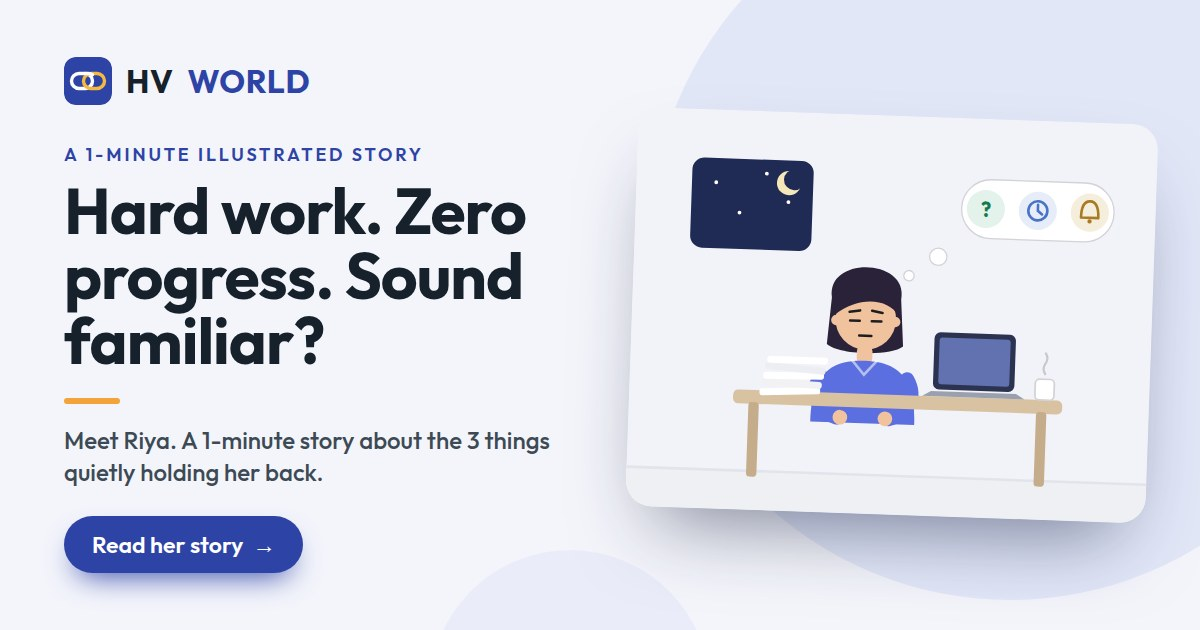
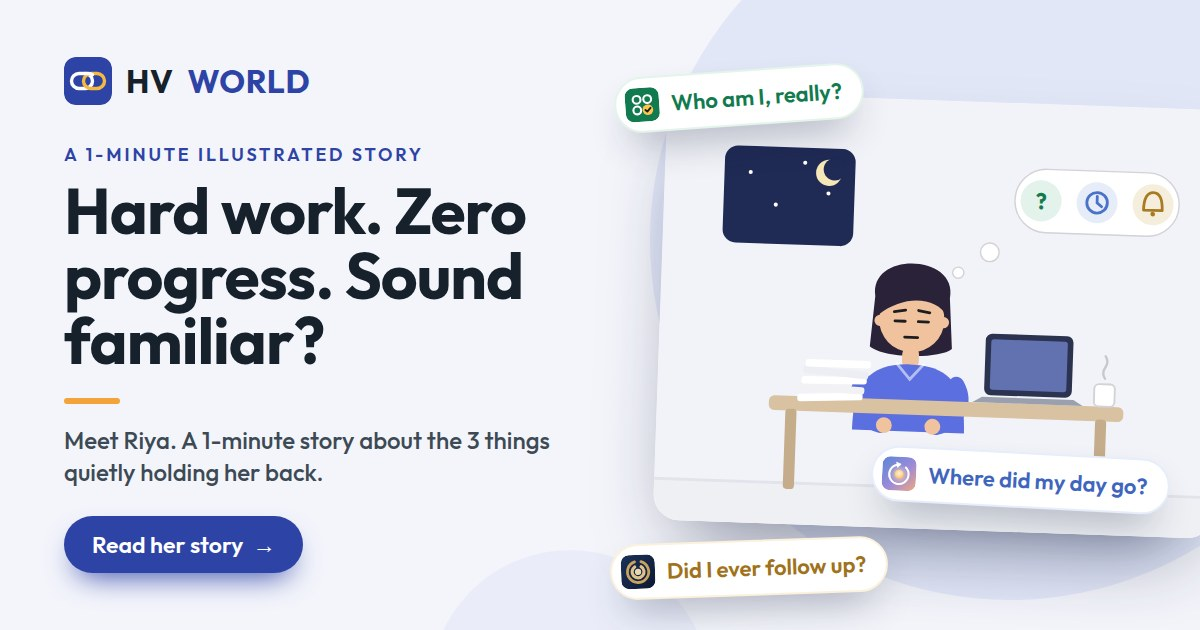
Riya's story preview: her three problems as floating chips
Bigger illustration with three chips around Riya, each in its app's
colour with the app icon: Who am I, really? / Where did my day go? /
Did I ever follow up?

Claude-Session: https://claude.ai/code/session_01Vu6r8mcg3NGaLLefhwPnrg

Changed region(s): [[0.4933, 0.2714, 1.0, 0.9952], [0.4933, 0.0905, 0.74, 0.4825]]

diff --git a/src/og-cards.html b/src/og-cards.html
@@ -45,6 +45,7 @@ h1{margin-top:12px;font-weight:700;font-size:64px;line-height:1.02;letter-spacin
 .score.mini{width:300px;padding:18px 22px}
 .vmini{position:absolute;width:300px;background:#fff;border-radius:22px;padding:16px;box-shadow:0 30px 60px -24px rgba(20,30,60,.5);z-index:3}
 .tag-app{display:flex;align-items:center;gap:8px;font-size:15px;font-weight:600;color:#6B7390;margin-bottom:10px}
-.riya{position:absolute;right:48px;top:50%;width:520px;transform:translateY(-50%) rotate(2deg);border-radius:26px;overflow:hidden;box-shadow:0 40px 80px -30px rgba(20,30,60,.55)}
+.pchip{position:absolute;z-index:4;display:flex;align-items:center;gap:12px;font-weight:600;font-size:22px;color:var(--c);background:#fff;border:2px solid var(--b);padding:9px 20px 9px 9px;border-radius:999px;box-shadow:0 20px 40px -16px rgba(20,30,60,.45);white-space:nowrap}
+.riya{position:absolute;left:40px;top:50%;width:560px;transform:translateY(-50%) rotate(2deg);border-radius:26px;overflow:hidden;box-shadow:0 40px 80px -30px rgba(20,30,60,.55)}
 .riya svg{display:block;width:100%;height:auto}
-</style></head><body><div class="card" data-out="og.jpg" style="--accent:#2E43A6;--dark:#233489;--tint:#F4F5FB;--circle:#E2E7F8"><div class="c1"></div><div class="c2"></div><div class="left"><div class="brand"><svg style="width:48px;height:48px;border-radius:11px;transform:rotate(0deg);flex:none;" xmlns="http://www.w3.org/2000/svg" viewBox="0 0 48 48"><defs><linearGradient id="hvw-og4" x1="0" y1="0" x2="1" y2="1"><stop offset="0" stop-color="#1C2A6B"/><stop offset=".6" stop-color="#4A46C9"/><stop offset="1" stop-color="#7C5CE0"/></linearGradient><radialGradient id="hvwc-og4" cx=".4" cy=".35" r=".7"><stop offset="0" stop-color="#FFFFFF"/><stop offset="1" stop-color="#C9D3FF"/></radialGradient></defs><rect width="48" height="48" rx="12" fill="url(#hvw-og4)"/><ellipse cx="24" cy="24" rx="16.5" ry="7.5" fill="none" stroke="#fff" stroke-opacity=".55" stroke-width="1.8" transform="rotate(-24 24 24)"/><circle cx="24" cy="24" r="6.2" fill="url(#hvwc-og4)"/><circle cx="37.6" cy="17.9" r="3.3" fill="#F2C063"/><circle cx="10.4" cy="30.1" r="3.3" fill="#34C77B"/><circle cx="17.4" cy="14.6" r="2.6" fill="#F2A77E"/></svg>HV <b>WORLD</b></div><p class="eye">3 free apps · by Harsh Vittori</p><h1>Stop guessing.<br>Start growing.</h1><div class="rule"></div><p class="sub">Know your strengths. Run a calm day.<br>Never miss a follow-up.</p><div class="cta">▶&nbsp; Watch the 45s film</div></div><div class="bleed"><div class="score mini" style="left:30px;top:44px;transform:rotate(-4deg)"><div class="tag-app"><svg style="width:26px;height:26px;border-radius:6px;transform:rotate(0deg);flex:none;" xmlns="http://www.w3.org/2000/svg" viewBox="0 0 48 48"><rect width="48" height="48" rx="12" fill="#127A4F"/><circle cx="16.5" cy="16.5" r="5.5" stroke="#FFFFFF" stroke-width="3" fill="none"/><circle cx="31.5" cy="16.5" r="5.5" stroke="#FFFFFF" stroke-width="3" fill="none"/><circle cx="16.5" cy="31.5" r="5.5" stroke="#FFFFFF" stroke-width="3" fill="none"/><circle cx="31.5" cy="31.5" r="7.5" fill="#FFC54D"/><path d="M28 31.6l2.5 2.5 4.8-5" stroke="#17231C" stroke-width="2.6" fill="none" stroke-linecap="round" stroke-linejoin="round"/></svg><span>HV Test</span></div><div class="sc-top" style="margin:0"><svg viewBox="0 0 120 120" class="ringsv" style="width:96px;height:96px"><circle cx="60" cy="60" r="50" fill="none" stroke="#E1F0E7" stroke-width="13"/><circle cx="60" cy="60" r="50" fill="none" stroke="#127A4F" stroke-width="13" stroke-linecap="round" stroke-dasharray="314" stroke-dashoffset="104" transform="rotate(-90 60 60)"/></svg><div class="sc-num"><b style="font-size:60px">67<span style="font-size:22px">/100</span></b><em style="font-size:16px">Grounded</em></div></div></div><div class="plan" style="left:214px;top:215px;width:350px;transform:rotate(3deg);z-index:4"><div class="tag-app"><svg style="width:26px;height:26px;border-radius:6px;transform:rotate(0deg);flex:none;" xmlns="http://www.w3.org/2000/svg" viewBox="0 0 1024 1024"><defs><linearGradient id="hvrbg-og2" x1="0" y1="0" x2="1" y2="1"><stop offset="0" stop-color="#5B86D6"/><stop offset=".55" stop-color="#9C8BDA"/><stop offset="1" stop-color="#F2A77E"/></linearGradient><radialGradient id="hvrsun-og2" cx=".5" cy=".42" r=".6"><stop offset="0" stop-color="#FFF6DA"/><stop offset=".6" stop-color="#FFD58F"/><stop offset="1" stop-color="#FFB066"/></radialGradient><radialGradient id="hvrglow-og2" cx=".5" cy=".5" r=".5"><stop offset="0" stop-color="#FFE9B8" stop-opacity=".75"/><stop offset="1" stop-color="#FFE9B8" stop-opacity="0"/></radialGradient></defs><rect width="1024" height="1024" rx="232" fill="url(#hvrbg-og2)"/><circle cx="512" cy="530" r="300" fill="url(#hvrglow-og2)"/><circle cx="512" cy="530" r="138" fill="url(#hvrsun-og2)"/><path d="M704 318A292 292 0 1 1 452 244" fill="none" stroke="#fff" stroke-width="62" stroke-linecap="round"/><path d="M548 225L454 318L424 176Z" fill="#fff" stroke="#fff" stroke-width="30" stroke-linejoin="round"/></svg><span>HV Reset</span></div><div class="row now"><b>3:00 PM</b><span>Send applications</span><em>+30m</em></div><div class="row"><b>4:30 PM</b><span>Outreach</span><em>+30m</em></div></div><div class="vmini" style="left:40px;top:392px;transform:rotate(-2deg)"><div class="tag-app"><svg style="width:26px;height:26px;border-radius:6px;transform:rotate(0deg);flex:none;" viewBox="0 0 1024 1024" aria-hidden="true"><defs><linearGradient id="hvaimk-og3" x1="0" y1="0" x2="1" y2="1"><stop offset="0" stop-color="#1B3157"/><stop offset=".5" stop-color="#152647"/><stop offset="1" stop-color="#0C1830"/></linearGradient></defs><rect width="1024" height="1024" rx="230" fill="url(#hvaimk-og3)"/><path d="M 608.00 360.68 A 179.2 179.2 0 1 1 416.00 360.68" fill="none" stroke="#DFC18A" stroke-width="96" stroke-linecap="round"/><path d="M 608.00 206.74 A 320 320 0 1 1 416.00 206.74" fill="none" stroke="#C9A45E" stroke-width="83.2" stroke-linecap="round"/><circle cx="512" cy="512" r="96" fill="#EAD9B0"/></svg><span>HV Vault</span></div><div class="kc " style="position:relative;box-shadow:none;border:1px solid #EEF0F5"><div class="kh"><i style="background:#FC8019">S</i><div><b>Growth Associate</b><small>Swiggy</small></div></div><span class="tg">Applied ✓</span></div></div><div class="toast" style="left:250px;bottom:40px;z-index:5">✓&nbsp; Follow-up reminder set</div></div></div><div class="card" data-out="story/og.jpg" style="--accent:#2E43A6;--dark:#233489;--tint:#F4F5FB;--circle:#E2E7F8"><div class="c1"></div><div class="c2"></div><div class="left"><div class="brand"><svg style="width:48px;height:48px;border-radius:11px;transform:rotate(0deg);flex:none;" xmlns="http://www.w3.org/2000/svg" viewBox="0 0 48 48"><rect width="48" height="48" rx="12" fill="#2E43A6"/><rect x="7.5" y="16.5" width="21" height="15" rx="7.5" fill="none" stroke="#FFFFFF" stroke-width="3.4"/><rect x="19.5" y="16.5" width="21" height="15" rx="7.5" fill="none" stroke="#F4B942" stroke-width="3.4"/><path d="M21.2 16.5h3.3a7.5 7.5 0 0 1 4 1.2" fill="none" stroke="#FFFFFF" stroke-width="3.4" stroke-linecap="round"/></svg>HV <b>WORLD</b></div><p class="eye">A 1-minute illustrated story</p><h1>Hard work. Zero progress. Sound familiar?</h1><div class="rule"></div><p class="sub">Meet Riya. A 1-minute story about the 3 things quietly holding her back.</p><div class="cta">Read her story &nbsp;→</div></div><div class="riya"><svg class="art" viewBox="0 0 600 460" role="img" aria-label="Riya at her desk late at night, worried about three things: who she is, where her day goes, and follow-ups"><rect width="600" height="460" rx="28" fill="#F2F3F8"/><rect x="64" y="56" width="140" height="104" rx="14" fill="#1F2A55"/><circle cx="176" cy="82" r="14" fill="#F6E7B8"/><circle cx="182" cy="78" r="12" fill="#1F2A55"/><circle class="twinkle" style="animation-delay:0.0s" cx="92" cy="84" r="2.2" fill="#FFFFFF"/><circle class="twinkle" style="animation-delay:0.7s" cx="150" cy="72" r="2.2" fill="#FFFFFF"/><circle class="twinkle" style="animation-delay:1.3s" cx="120" cy="118" r="2.2" fill="#FFFFFF"/><circle class="twinkle" style="animation-delay:2.0s" cx="176" cy="104" r="2.2" fill="#FFFFFF"/><rect x="0" y="416" width="600" height="44" fill="#EEF0F4"/><rect x="0" y="414" width="600" height="3" fill="#E1E4EA"/><g class="" transform="translate(270 330) scale(1)"><path d="M-40,-118 C-48,-166 48,-166 40,-118 L44,-64 C30,-52 -30,-52 -44,-64Z" fill="#2A2238"/><rect x="-9" y="-64" width="18" height="22" rx="7" fill="#F0C29E"/><path d="M-60,26 C-60,-26 -42,-46 0,-46 C42,-46 60,-26 60,26 Z" fill="#5B6FE0"/><path d="M-14,-46 L0,-30 L14,-46" fill="none" stroke="#FFFFFF" stroke-opacity=".55" stroke-width="3" stroke-linecap="round"/><circle cx="-34" cy="-92" r="6" fill="#F0C29E"/><circle cx="34" cy="-92" r="6" fill="#F0C29E"/><circle cx="0" cy="-94" r="35" fill="#F0C29E"/><path d="M-36,-98 C-34,-138 34,-142 37,-100 C26,-118 -8,-122 -36,-98Z" fill="#2A2238"/><g class=""><path d="M-18,-92 L-7,-92 M7,-92 L18,-92" stroke="#1D1D1F" stroke-width="3" stroke-linecap="round"/><path d="M-19,-102 L-7,-104 M19,-102 L7,-104" stroke="#1D1D1F" stroke-width="3" stroke-linecap="round"/><path d="M-7,-75 L7,-75" stroke="#1D1D1F" stroke-width="3" stroke-linecap="round"/></g><g class=""><path d="M-50,-26 C-62,-6 -52,14 -30,20" fill="none" stroke="#5B6FE0" stroke-width="17" stroke-linecap="round"/><circle cx="-26" cy="20" r="8.5" fill="#F0C29E"/><path d="M50,-26 C62,-6 52,14 30,20" fill="none" stroke="#5B6FE0" stroke-width="17" stroke-linecap="round"/><circle cx="26" cy="20" r="8.5" fill="#F0C29E"/></g></g><rect x="120" y="322" width="380" height="16" rx="6" fill="#D8C2A2"/><rect x="138" y="336" width="12" height="86" rx="4" fill="#C5AD8B"/><rect x="470" y="336" width="12" height="86" rx="4" fill="#C5AD8B"/><rect x="150" y="318" width="70" height="8" rx="3" fill="#FFFFFF" transform="rotate(-3 185 318)"/><rect x="152" y="309" width="70" height="8" rx="3" fill="#F2F2F5" transform="rotate(2 185 309)"/><rect x="154" y="300" width="70" height="8" rx="3" fill="#FFFFFF" transform="rotate(-1 185 300)"/><rect x="156" y="291" width="70" height="8" rx="3" fill="#ECEEF3" transform="rotate(4 185 291)"/><rect x="158" y="282" width="70" height="8" rx="3" fill="#FFFFFF" transform="rotate(0 185 282)"/><g><path d="M338,322 h118 l-10,-6 h-98Z" fill="#9AA0AE"/><rect x="350" y="248" width="94" height="66" rx="7" fill="#2B3350"/><rect class="glowlap" x="356" y="254" width="82" height="54" rx="3" fill="#8FA6FF" opacity=".55"/></g><g><rect x="468" y="298" width="22" height="24" rx="5" fill="#FFFFFF" stroke="#D2D2D7" stroke-width="2"/><path class="steam" d="M479,292 q-4,-6 0,-12 q4,-6 0,-12" fill="none" stroke="#C7C7CC" stroke-width="2.5" stroke-linecap="round"/></g><g class=""><circle cx="318" cy="184" r="6" fill="#FFFFFF" stroke="#D2D2D7" stroke-width="1.5"/><circle cx="351" cy="161" r="10" fill="#FFFFFF" stroke="#D2D2D7" stroke-width="1.5"/><rect x="376" y="70" width="176" height="68" rx="34" fill="#FFFFFF" stroke="#D2D2D7" stroke-width="1.5"/><g class="pop" style="animation-delay:0s"><circle cx="404" cy="104" r="22" fill="#E3F2EA"/><text x="404" y="113" text-anchor="middle" font-size="24" font-weight="700" fill="#127A4F">?</text></g><g class="pop" style="animation-delay:.6s"><circle cx="464" cy="104" r="22" fill="#E6EDF9"/><circle cx="464" cy="104" r="11" fill="none" stroke="#4A72C8" stroke-width="3"/><path d="M464,97 v7 l5,4" stroke="#4A72C8" stroke-width="3" fill="none" stroke-linecap="round"/></g><g class="pop" style="animation-delay:1.2s"><circle cx="524" cy="104" r="22" fill="#F6EEDC"/><path d="M514,110 c0,-14 4,-19 10,-19 s10,5 10,19Z" fill="none" stroke="#A87A22" stroke-width="3" stroke-linejoin="round"/><circle cx="524" cy="114" r="2.5" fill="#A87A22"/></g></g></svg></div></div><div class="card" data-out="test/og.jpg" style="--accent:#127A4F;--dark:#0D5E3C;--tint:#F4F8F5;--circle:#DDEFE4"><div class="c1"></div><div class="c2"></div><div class="left"><div class="brand"><svg style="width:48px;height:48px;border-radius:11px;transform:rotate(0deg);flex:none;" xmlns="http://www.w3.org/2000/svg" viewBox="0 0 48 48"><rect width="48" height="48" rx="12" fill="#127A4F"/><circle cx="16.5" cy="16.5" r="5.5" stroke="#FFFFFF" stroke-width="3" fill="none"/><circle cx="31.5" cy="16.5" r="5.5" stroke="#FFFFFF" stroke-width="3" fill="none"/><circle cx="16.5" cy="31.5" r="5.5" stroke="#FFFFFF" stroke-width="3" fill="none"/><circle cx="31.5" cy="31.5" r="7.5" fill="#FFC54D"/><path d="M28 31.6l2.5 2.5 4.8-5" stroke="#17231C" stroke-width="2.6" fill="none" stroke-linecap="round" stroke-linejoin="round"/></svg>HV <b>TEST</b></div><p class="eye">10 minutes · Free · No login</p><h1>You think you know yourself. Prove it.</h1><div class="rule"></div><p class="sub">Real-life situations. An honest score out of 100, and a 30-day plan to grow.</p><div class="cta">Take the test &nbsp;→</div></div><div class="bleed"><div class="score" style="left:40px;top:50%;transform:translateY(-50%) rotate(-2deg)"><div class="sc-top"><svg viewBox="0 0 120 120" class="ringsv"><circle cx="60" cy="60" r="50" fill="none" stroke="#E1F0E7" stroke-width="12"/><circle cx="60" cy="60" r="50" fill="none" stroke="#127A4F" stroke-width="12" stroke-linecap="round" stroke-dasharray="314" stroke-dashoffset="104" transform="rotate(-90 60 60)"/></svg><div class="sc-num"><small>YOUR SCORE</small><b>67<span>/100</span></b><em>Grounded</em></div></div><div class="br"><div class="bt"><span>Accountability</span><b>89</b></div><div class="bb"><i style="width:89%"></i></div></div><div class="br"><div class="bt"><span>Emotional control</span><b>81</b></div><div class="bb"><i style="width:81%"></i></div></div><div class="br"><div class="bt"><span>Handling conflict</span><b>70</b></div><div class="bb"><i style="width:70%"></i></div></div></div><div class="fchip green" style="right:44px;top:66px;transform:rotate(4deg)">📄&nbsp; 2 PDFs ready</div><div class="fchip amber" style="right:30px;bottom:70px;transform:rotate(-3deg)">🎯&nbsp; 30-day plan</div></div></div><div class="card" data-out="reset/og.jpg" style="--accent:#3F66BE;--dark:#2C4E99;--tint:#F3F6FC;--circle:#DCE6F8"><div class="c1"></div><div class="c2"></div><div class="left"><div class="brand"><svg style="width:48px;height:48px;border-radius:11px;transform:rotate(0deg);flex:none;" xmlns="http://www.w3.org/2000/svg" viewBox="0 0 1024 1024"><defs><linearGradient id="hvrbg-og7" x1="0" y1="0" x2="1" y2="1"><stop offset="0" stop-color="#5B86D6"/><stop offset=".55" stop-color="#9C8BDA"/><stop offset="1" stop-color="#F2A77E"/></linearGradient><radialGradient id="hvrsun-og7" cx=".5" cy=".42" r=".6"><stop offset="0" stop-color="#FFF6DA"/><stop offset=".6" stop-color="#FFD58F"/><stop offset="1" stop-color="#FFB066"/></radialGradient><radialGradient id="hvrglow-og7" cx=".5" cy=".5" r=".5"><stop offset="0" stop-color="#FFE9B8" stop-opacity=".75"/><stop offset="1" stop-color="#FFE9B8" stop-opacity="0"/></radialGradient></defs><rect width="1024" height="1024" rx="232" fill="url(#hvrbg-og7)"/><circle cx="512" cy="530" r="300" fill="url(#hvrglow-og7)"/><circle cx="512" cy="530" r="138" fill="url(#hvrsun-og7)"/><path d="M704 318A292 292 0 1 1 452 244" fill="none" stroke="#fff" stroke-width="62" stroke-linecap="round"/><path d="M548 225L454 318L424 176Z" fill="#fff" stroke="#fff" stroke-width="30" stroke-linejoin="round"/></svg>HV <b>RESET</b></div><p class="eye">Plan your day</p><h1>Late start?<br>Fix your whole day<br>in one tap.</h1><div class="rule"></div><p class="sub">One block, one task, zero guilt. Meals and breaks stay protected.</p><div class="cta">Plan my day &nbsp;→</div></div><div class="bleed"><div class="win" style="width:565px;left:8px;top:50%;transform:translateY(-50%) rotate(-2deg)"><div class="bar"><i></i><i></i><i></i><span>harshvittori.github.io/harsh-reset</span></div><div class="scr" style="height:331px;background-image:url(og-assets/r-intro-0.jpg);background-size:1017.0px auto;background-position:-226.0px -123.6px"></div></div><div class="fchip amber" style="left:10px;top:78px;transform:rotate(-4deg)">⏰&nbsp; Running 30 min late</div><div class="plan" style="left:-24px;bottom:58px;transform:rotate(2deg)"><div class="row now"><b>3:00 PM</b><span>Send applications</span><em>+30m</em></div><div class="row"><b>4:30 PM</b><span>Outreach</span><em>+30m</em></div><div class="row meal"><b>5:30 PM</b><span>Lunch break</span><em>kept</em></div></div><div class="fchip green" style="right:40px;bottom:150px;transform:rotate(3deg)">✓&nbsp; Whole day shifted</div></div></div><div class="card" data-out="vault/og.jpg" style="--accent:#A0721C;--dark:#7C5712;--tint:#FAF7F0;--circle:#F1E6CF"><div class="c1"></div><div class="c2"></div><div class="left"><div class="brand"><svg style="width:48px;height:48px;border-radius:11px;transform:rotate(0deg);flex:none;" viewBox="0 0 1024 1024" aria-hidden="true"><defs><linearGradient id="hvaimk-og8" x1="0" y1="0" x2="1" y2="1"><stop offset="0" stop-color="#1B3157"/><stop offset=".5" stop-color="#152647"/><stop offset="1" stop-color="#0C1830"/></linearGradient></defs><rect width="1024" height="1024" rx="230" fill="url(#hvaimk-og8)"/><path d="M 608.00 360.68 A 179.2 179.2 0 1 1 416.00 360.68" fill="none" stroke="#DFC18A" stroke-width="96" stroke-linecap="round"/><path d="M 608.00 206.74 A 320 320 0 1 1 416.00 206.74" fill="none" stroke="#C9A45E" stroke-width="83.2" stroke-linecap="round"/><circle cx="512" cy="512" r="96" fill="#EAD9B0"/></svg>HV <b>VAULT</b></div><p class="eye">For your job hunt</p><h1>Stop losing job leads in WhatsApp chats.</h1><div class="rule"></div><p class="sub">Every job, recruiter and interview on one board, with follow-ups that set themselves.</p><div class="cta">Organise my job hunt &nbsp;→</div></div><div class="bleed"><div class="board" style="left:14px;top:50%;transform:translateY(-50%) rotate(-2deg)"><div class="bh"><span>SAVED</span><span>APPLIED</span><span>INTERVIEW</span></div><div class="cols"><div class="kcol"><div class="kc " style=""><div class="kh"><i style="background:#3395FF">R</i><div><b>GTM Associate</b><small>Razorpay</small></div></div><span class="tg">Medium</span></div><div class="kc " style=""><div class="kh"><i style="background:#E0457B">M</i><div><b>Growth Analyst</b><small>Meesho</small></div></div><span class="tg">High</span></div></div><div class="kcol"><div class="kc " style=""><div class="kh"><i style="background:#1D1D1F">C</i><div><b>Founder's Office</b><small>Cred</small></div></div><span class="tg">Follow-up in 5d</span></div><div class="slot"></div></div><div class="kcol"><div class="kc " style=""><div class="kh"><i style="background:#E23744">Z</i><div><b>Partnerships Lead</b><small>Zomato</small></div></div><span class="tg">Tue · 4:00 PM</span></div></div></div></div><div class="kc drag" style="left:215px;top:300px;transform:rotate(6deg);width:236px"><div class="kh"><i style="background:#FC8019">S</i><div><b>Growth Associate</b><small>Swiggy</small></div></div><span class="tg">High</span></div><div class="toast" style="left:48px;bottom:44px">✓&nbsp; Applied, follow-up reminder set</div><div class="fchip gold" style="right:64px;top:62px;transform:rotate(4deg)">🔔&nbsp; Follow up with Cred today</div></div></div></body></html>
+</style></head><body><div class="card" data-out="og.jpg" style="--accent:#2E43A6;--dark:#233489;--tint:#F4F5FB;--circle:#E2E7F8"><div class="c1"></div><div class="c2"></div><div class="left"><div class="brand"><svg style="width:48px;height:48px;border-radius:11px;transform:rotate(0deg);flex:none;" xmlns="http://www.w3.org/2000/svg" viewBox="0 0 48 48"><defs><linearGradient id="hvw-og7" x1="0" y1="0" x2="1" y2="1"><stop offset="0" stop-color="#1C2A6B"/><stop offset=".6" stop-color="#4A46C9"/><stop offset="1" stop-color="#7C5CE0"/></linearGradient><radialGradient id="hvwc-og7" cx=".4" cy=".35" r=".7"><stop offset="0" stop-color="#FFFFFF"/><stop offset="1" stop-color="#C9D3FF"/></radialGradient></defs><rect width="48" height="48" rx="12" fill="url(#hvw-og7)"/><ellipse cx="24" cy="24" rx="16.5" ry="7.5" fill="none" stroke="#fff" stroke-opacity=".55" stroke-width="1.8" transform="rotate(-24 24 24)"/><circle cx="24" cy="24" r="6.2" fill="url(#hvwc-og7)"/><circle cx="37.6" cy="17.9" r="3.3" fill="#F2C063"/><circle cx="10.4" cy="30.1" r="3.3" fill="#34C77B"/><circle cx="17.4" cy="14.6" r="2.6" fill="#F2A77E"/></svg>HV <b>WORLD</b></div><p class="eye">3 free apps · by Harsh Vittori</p><h1>Stop guessing.<br>Start growing.</h1><div class="rule"></div><p class="sub">Know your strengths. Run a calm day.<br>Never miss a follow-up.</p><div class="cta">▶&nbsp; Watch the 45s film</div></div><div class="bleed"><div class="score mini" style="left:30px;top:44px;transform:rotate(-4deg)"><div class="tag-app"><svg style="width:26px;height:26px;border-radius:6px;transform:rotate(0deg);flex:none;" xmlns="http://www.w3.org/2000/svg" viewBox="0 0 48 48"><rect width="48" height="48" rx="12" fill="#127A4F"/><circle cx="16.5" cy="16.5" r="5.5" stroke="#FFFFFF" stroke-width="3" fill="none"/><circle cx="31.5" cy="16.5" r="5.5" stroke="#FFFFFF" stroke-width="3" fill="none"/><circle cx="16.5" cy="31.5" r="5.5" stroke="#FFFFFF" stroke-width="3" fill="none"/><circle cx="31.5" cy="31.5" r="7.5" fill="#FFC54D"/><path d="M28 31.6l2.5 2.5 4.8-5" stroke="#17231C" stroke-width="2.6" fill="none" stroke-linecap="round" stroke-linejoin="round"/></svg><span>HV Test</span></div><div class="sc-top" style="margin:0"><svg viewBox="0 0 120 120" class="ringsv" style="width:96px;height:96px"><circle cx="60" cy="60" r="50" fill="none" stroke="#E1F0E7" stroke-width="13"/><circle cx="60" cy="60" r="50" fill="none" stroke="#127A4F" stroke-width="13" stroke-linecap="round" stroke-dasharray="314" stroke-dashoffset="104" transform="rotate(-90 60 60)"/></svg><div class="sc-num"><b style="font-size:60px">67<span style="font-size:22px">/100</span></b><em style="font-size:16px">Grounded</em></div></div></div><div class="plan" style="left:214px;top:215px;width:350px;transform:rotate(3deg);z-index:4"><div class="tag-app"><svg style="width:26px;height:26px;border-radius:6px;transform:rotate(0deg);flex:none;" xmlns="http://www.w3.org/2000/svg" viewBox="0 0 1024 1024"><defs><linearGradient id="hvrbg-og2" x1="0" y1="0" x2="1" y2="1"><stop offset="0" stop-color="#5B86D6"/><stop offset=".55" stop-color="#9C8BDA"/><stop offset="1" stop-color="#F2A77E"/></linearGradient><radialGradient id="hvrsun-og2" cx=".5" cy=".42" r=".6"><stop offset="0" stop-color="#FFF6DA"/><stop offset=".6" stop-color="#FFD58F"/><stop offset="1" stop-color="#FFB066"/></radialGradient><radialGradient id="hvrglow-og2" cx=".5" cy=".5" r=".5"><stop offset="0" stop-color="#FFE9B8" stop-opacity=".75"/><stop offset="1" stop-color="#FFE9B8" stop-opacity="0"/></radialGradient></defs><rect width="1024" height="1024" rx="232" fill="url(#hvrbg-og2)"/><circle cx="512" cy="530" r="300" fill="url(#hvrglow-og2)"/><circle cx="512" cy="530" r="138" fill="url(#hvrsun-og2)"/><path d="M704 318A292 292 0 1 1 452 244" fill="none" stroke="#fff" stroke-width="62" stroke-linecap="round"/><path d="M548 225L454 318L424 176Z" fill="#fff" stroke="#fff" stroke-width="30" stroke-linejoin="round"/></svg><span>HV Reset</span></div><div class="row now"><b>3:00 PM</b><span>Send applications</span><em>+30m</em></div><div class="row"><b>4:30 PM</b><span>Outreach</span><em>+30m</em></div></div><div class="vmini" style="left:40px;top:392px;transform:rotate(-2deg)"><div class="tag-app"><svg style="width:26px;height:26px;border-radius:6px;transform:rotate(0deg);flex:none;" viewBox="0 0 1024 1024" aria-hidden="true"><defs><linearGradient id="hvaimk-og3" x1="0" y1="0" x2="1" y2="1"><stop offset="0" stop-color="#1B3157"/><stop offset=".5" stop-color="#152647"/><stop offset="1" stop-color="#0C1830"/></linearGradient></defs><rect width="1024" height="1024" rx="230" fill="url(#hvaimk-og3)"/><path d="M 608.00 360.68 A 179.2 179.2 0 1 1 416.00 360.68" fill="none" stroke="#DFC18A" stroke-width="96" stroke-linecap="round"/><path d="M 608.00 206.74 A 320 320 0 1 1 416.00 206.74" fill="none" stroke="#C9A45E" stroke-width="83.2" stroke-linecap="round"/><circle cx="512" cy="512" r="96" fill="#EAD9B0"/></svg><span>HV Vault</span></div><div class="kc " style="position:relative;box-shadow:none;border:1px solid #EEF0F5"><div class="kh"><i style="background:#FC8019">S</i><div><b>Growth Associate</b><small>Swiggy</small></div></div><span class="tg">Applied ✓</span></div></div><div class="toast" style="left:250px;bottom:40px;z-index:5">✓&nbsp; Follow-up reminder set</div></div></div><div class="card" data-out="story/og.jpg" style="--accent:#2E43A6;--dark:#233489;--tint:#F4F5FB;--circle:#E2E7F8"><div class="c1"></div><div class="c2"></div><div class="left"><div class="brand"><svg style="width:48px;height:48px;border-radius:11px;transform:rotate(0deg);flex:none;" xmlns="http://www.w3.org/2000/svg" viewBox="0 0 48 48"><rect width="48" height="48" rx="12" fill="#2E43A6"/><rect x="7.5" y="16.5" width="21" height="15" rx="7.5" fill="none" stroke="#FFFFFF" stroke-width="3.4"/><rect x="19.5" y="16.5" width="21" height="15" rx="7.5" fill="none" stroke="#F4B942" stroke-width="3.4"/><path d="M21.2 16.5h3.3a7.5 7.5 0 0 1 4 1.2" fill="none" stroke="#FFFFFF" stroke-width="3.4" stroke-linecap="round"/></svg>HV <b>WORLD</b></div><p class="eye">A 1-minute illustrated story</p><h1>Hard work. Zero progress. Sound familiar?</h1><div class="rule"></div><p class="sub">Meet Riya. A 1-minute story about the 3 things quietly holding her back.</p><div class="cta">Read her story &nbsp;→</div></div><div class="bleed"><div class="riya"><svg class="art" viewBox="0 0 600 460" role="img" aria-label="Riya at her desk late at night, worried about three things: who she is, where her day goes, and follow-ups"><rect width="600" height="460" rx="28" fill="#F2F3F8"/><rect x="64" y="56" width="140" height="104" rx="14" fill="#1F2A55"/><circle cx="176" cy="82" r="14" fill="#F6E7B8"/><circle cx="182" cy="78" r="12" fill="#1F2A55"/><circle class="twinkle" style="animation-delay:0.0s" cx="92" cy="84" r="2.2" fill="#FFFFFF"/><circle class="twinkle" style="animation-delay:0.7s" cx="150" cy="72" r="2.2" fill="#FFFFFF"/><circle class="twinkle" style="animation-delay:1.3s" cx="120" cy="118" r="2.2" fill="#FFFFFF"/><circle class="twinkle" style="animation-delay:2.0s" cx="176" cy="104" r="2.2" fill="#FFFFFF"/><rect x="0" y="416" width="600" height="44" fill="#EEF0F4"/><rect x="0" y="414" width="600" height="3" fill="#E1E4EA"/><g class="" transform="translate(270 330) scale(1)"><path d="M-40,-118 C-48,-166 48,-166 40,-118 L44,-64 C30,-52 -30,-52 -44,-64Z" fill="#2A2238"/><rect x="-9" y="-64" width="18" height="22" rx="7" fill="#F0C29E"/><path d="M-60,26 C-60,-26 -42,-46 0,-46 C42,-46 60,-26 60,26 Z" fill="#5B6FE0"/><path d="M-14,-46 L0,-30 L14,-46" fill="none" stroke="#FFFFFF" stroke-opacity=".55" stroke-width="3" stroke-linecap="round"/><circle cx="-34" cy="-92" r="6" fill="#F0C29E"/><circle cx="34" cy="-92" r="6" fill="#F0C29E"/><circle cx="0" cy="-94" r="35" fill="#F0C29E"/><path d="M-36,-98 C-34,-138 34,-142 37,-100 C26,-118 -8,-122 -36,-98Z" fill="#2A2238"/><g class=""><path d="M-18,-92 L-7,-92 M7,-92 L18,-92" stroke="#1D1D1F" stroke-width="3" stroke-linecap="round"/><path d="M-19,-102 L-7,-104 M19,-102 L7,-104" stroke="#1D1D1F" stroke-width="3" stroke-linecap="round"/><path d="M-7,-75 L7,-75" stroke="#1D1D1F" stroke-width="3" stroke-linecap="round"/></g><g class=""><path d="M-50,-26 C-62,-6 -52,14 -30,20" fill="none" stroke="#5B6FE0" stroke-width="17" stroke-linecap="round"/><circle cx="-26" cy="20" r="8.5" fill="#F0C29E"/><path d="M50,-26 C62,-6 52,14 30,20" fill="none" stroke="#5B6FE0" stroke-width="17" stroke-linecap="round"/><circle cx="26" cy="20" r="8.5" fill="#F0C29E"/></g></g><rect x="120" y="322" width="380" height="16" rx="6" fill="#D8C2A2"/><rect x="138" y="336" width="12" height="86" rx="4" fill="#C5AD8B"/><rect x="470" y="336" width="12" height="86" rx="4" fill="#C5AD8B"/><rect x="150" y="318" width="70" height="8" rx="3" fill="#FFFFFF" transform="rotate(-3 185 318)"/><rect x="152" y="309" width="70" height="8" rx="3" fill="#F2F2F5" transform="rotate(2 185 309)"/><rect x="154" y="300" width="70" height="8" rx="3" fill="#FFFFFF" transform="rotate(-1 185 300)"/><rect x="156" y="291" width="70" height="8" rx="3" fill="#ECEEF3" transform="rotate(4 185 291)"/><rect x="158" y="282" width="70" height="8" rx="3" fill="#FFFFFF" transform="rotate(0 185 282)"/><g><path d="M338,322 h118 l-10,-6 h-98Z" fill="#9AA0AE"/><rect x="350" y="248" width="94" height="66" rx="7" fill="#2B3350"/><rect class="glowlap" x="356" y="254" width="82" height="54" rx="3" fill="#8FA6FF" opacity=".55"/></g><g><rect x="468" y="298" width="22" height="24" rx="5" fill="#FFFFFF" stroke="#D2D2D7" stroke-width="2"/><path class="steam" d="M479,292 q-4,-6 0,-12 q4,-6 0,-12" fill="none" stroke="#C7C7CC" stroke-width="2.5" stroke-linecap="round"/></g><g class=""><circle cx="318" cy="184" r="6" fill="#FFFFFF" stroke="#D2D2D7" stroke-width="1.5"/><circle cx="351" cy="161" r="10" fill="#FFFFFF" stroke="#D2D2D7" stroke-width="1.5"/><rect x="376" y="70" width="176" height="68" rx="34" fill="#FFFFFF" stroke="#D2D2D7" stroke-width="1.5"/><g class="pop" style="animation-delay:0s"><circle cx="404" cy="104" r="22" fill="#E3F2EA"/><text x="404" y="113" text-anchor="middle" font-size="24" font-weight="700" fill="#127A4F">?</text></g><g class="pop" style="animation-delay:.6s"><circle cx="464" cy="104" r="22" fill="#E6EDF9"/><circle cx="464" cy="104" r="11" fill="none" stroke="#4A72C8" stroke-width="3"/><path d="M464,97 v7 l5,4" stroke="#4A72C8" stroke-width="3" fill="none" stroke-linecap="round"/></g><g class="pop" style="animation-delay:1.2s"><circle cx="524" cy="104" r="22" fill="#F6EEDC"/><path d="M514,110 c0,-14 4,-19 10,-19 s10,5 10,19Z" fill="none" stroke="#A87A22" stroke-width="3" stroke-linejoin="round"/><circle cx="524" cy="114" r="2.5" fill="#A87A22"/></g></g></svg></div><div class="pchip" style="left:-6px;top:70px;transform:rotate(-4deg);--c:#127A4F;--b:#E3F4EA"><svg style="width:34px;height:34px;border-radius:8px;transform:rotate(0deg);flex:none;" xmlns="http://www.w3.org/2000/svg" viewBox="0 0 48 48"><rect width="48" height="48" rx="12" fill="#127A4F"/><circle cx="16.5" cy="16.5" r="5.5" stroke="#FFFFFF" stroke-width="3" fill="none"/><circle cx="31.5" cy="16.5" r="5.5" stroke="#FFFFFF" stroke-width="3" fill="none"/><circle cx="16.5" cy="31.5" r="5.5" stroke="#FFFFFF" stroke-width="3" fill="none"/><circle cx="31.5" cy="31.5" r="7.5" fill="#FFC54D"/><path d="M28 31.6l2.5 2.5 4.8-5" stroke="#17231C" stroke-width="2.6" fill="none" stroke-linecap="round" stroke-linejoin="round"/></svg><span>Who am I, really?</span></div><div class="pchip" style="right:70px;top:452px;transform:rotate(3deg);--c:#3F66BE;--b:#E6EDFB"><svg style="width:34px;height:34px;border-radius:8px;transform:rotate(0deg);flex:none;" xmlns="http://www.w3.org/2000/svg" viewBox="0 0 1024 1024"><defs><linearGradient id="hvrbg-og5" x1="0" y1="0" x2="1" y2="1"><stop offset="0" stop-color="#5B86D6"/><stop offset=".55" stop-color="#9C8BDA"/><stop offset="1" stop-color="#F2A77E"/></linearGradient><radialGradient id="hvrsun-og5" cx=".5" cy=".42" r=".6"><stop offset="0" stop-color="#FFF6DA"/><stop offset=".6" stop-color="#FFD58F"/><stop offset="1" stop-color="#FFB066"/></radialGradient><radialGradient id="hvrglow-og5" cx=".5" cy=".5" r=".5"><stop offset="0" stop-color="#FFE9B8" stop-opacity=".75"/><stop offset="1" stop-color="#FFE9B8" stop-opacity="0"/></radialGradient></defs><rect width="1024" height="1024" rx="232" fill="url(#hvrbg-og5)"/><circle cx="512" cy="530" r="300" fill="url(#hvrglow-og5)"/><circle cx="512" cy="530" r="138" fill="url(#hvrsun-og5)"/><path d="M704 318A292 292 0 1 1 452 244" fill="none" stroke="#fff" stroke-width="62" stroke-linecap="round"/><path d="M548 225L454 318L424 176Z" fill="#fff" stroke="#fff" stroke-width="30" stroke-linejoin="round"/></svg><span>Where did my day go?</span></div><div class="pchip" style="left:-10px;bottom:34px;transform:rotate(-2deg);--c:#A0721C;--b:#FBF1DC"><svg style="width:34px;height:34px;border-radius:8px;transform:rotate(0deg);flex:none;" viewBox="0 0 1024 1024" aria-hidden="true"><defs><linearGradient id="hvaimk-og6" x1="0" y1="0" x2="1" y2="1"><stop offset="0" stop-color="#1B3157"/><stop offset=".5" stop-color="#152647"/><stop offset="1" stop-color="#0C1830"/></linearGradient></defs><rect width="1024" height="1024" rx="230" fill="url(#hvaimk-og6)"/><path d="M 608.00 360.68 A 179.2 179.2 0 1 1 416.00 360.68" fill="none" stroke="#DFC18A" stroke-width="96" stroke-linecap="round"/><path d="M 608.00 206.74 A 320 320 0 1 1 416.00 206.74" fill="none" stroke="#C9A45E" stroke-width="83.2" stroke-linecap="round"/><circle cx="512" cy="512" r="96" fill="#EAD9B0"/></svg><span>Did I ever follow up?</span></div></div></div><div class="card" data-out="test/og.jpg" style="--accent:#127A4F;--dark:#0D5E3C;--tint:#F4F8F5;--circle:#DDEFE4"><div class="c1"></div><div class="c2"></div><div class="left"><div class="brand"><svg style="width:48px;height:48px;border-radius:11px;transform:rotate(0deg);flex:none;" xmlns="http://www.w3.org/2000/svg" viewBox="0 0 48 48"><rect width="48" height="48" rx="12" fill="#127A4F"/><circle cx="16.5" cy="16.5" r="5.5" stroke="#FFFFFF" stroke-width="3" fill="none"/><circle cx="31.5" cy="16.5" r="5.5" stroke="#FFFFFF" stroke-width="3" fill="none"/><circle cx="16.5" cy="31.5" r="5.5" stroke="#FFFFFF" stroke-width="3" fill="none"/><circle cx="31.5" cy="31.5" r="7.5" fill="#FFC54D"/><path d="M28 31.6l2.5 2.5 4.8-5" stroke="#17231C" stroke-width="2.6" fill="none" stroke-linecap="round" stroke-linejoin="round"/></svg>HV <b>TEST</b></div><p class="eye">10 minutes · Free · No login</p><h1>You think you know yourself. Prove it.</h1><div class="rule"></div><p class="sub">Real-life situations. An honest score out of 100, and a 30-day plan to grow.</p><div class="cta">Take the test &nbsp;→</div></div><div class="bleed"><div class="score" style="left:40px;top:50%;transform:translateY(-50%) rotate(-2deg)"><div class="sc-top"><svg viewBox="0 0 120 120" class="ringsv"><circle cx="60" cy="60" r="50" fill="none" stroke="#E1F0E7" stroke-width="12"/><circle cx="60" cy="60" r="50" fill="none" stroke="#127A4F" stroke-width="12" stroke-linecap="round" stroke-dasharray="314" stroke-dashoffset="104" transform="rotate(-90 60 60)"/></svg><div class="sc-num"><small>YOUR SCORE</small><b>67<span>/100</span></b><em>Grounded</em></div></div><div class="br"><div class="bt"><span>Accountability</span><b>89</b></div><div class="bb"><i style="width:89%"></i></div></div><div class="br"><div class="bt"><span>Emotional control</span><b>81</b></div><div class="bb"><i style="width:81%"></i></div></div><div class="br"><div class="bt"><span>Handling conflict</span><b>70</b></div><div class="bb"><i style="width:70%"></i></div></div></div><div class="fchip green" style="right:44px;top:66px;transform:rotate(4deg)">📄&nbsp; 2 PDFs ready</div><div class="fchip amber" style="right:30px;bottom:70px;transform:rotate(-3deg)">🎯&nbsp; 30-day plan</div></div></div><div class="card" data-out="reset/og.jpg" style="--accent:#3F66BE;--dark:#2C4E99;--tint:#F3F6FC;--circle:#DCE6F8"><div class="c1"></div><div class="c2"></div><div class="left"><div class="brand"><svg style="width:48px;height:48px;border-radius:11px;transform:rotate(0deg);flex:none;" xmlns="http://www.w3.org/2000/svg" viewBox="0 0 1024 1024"><defs><linearGradient id="hvrbg-og10" x1="0" y1="0" x2="1" y2="1"><stop offset="0" stop-color="#5B86D6"/><stop offset=".55" stop-color="#9C8BDA"/><stop offset="1" stop-color="#F2A77E"/></linearGradient><radialGradient id="hvrsun-og10" cx=".5" cy=".42" r=".6"><stop offset="0" stop-color="#FFF6DA"/><stop offset=".6" stop-color="#FFD58F"/><stop offset="1" stop-color="#FFB066"/></radialGradient><radialGradient id="hvrglow-og10" cx=".5" cy=".5" r=".5"><stop offset="0" stop-color="#FFE9B8" stop-opacity=".75"/><stop offset="1" stop-color="#FFE9B8" stop-opacity="0"/></radialGradient></defs><rect width="1024" height="1024" rx="232" fill="url(#hvrbg-og10)"/><circle cx="512" cy="530" r="300" fill="url(#hvrglow-og10)"/><circle cx="512" cy="530" r="138" fill="url(#hvrsun-og10)"/><path d="M704 318A292 292 0 1 1 452 244" fill="none" stroke="#fff" stroke-width="62" stroke-linecap="round"/><path d="M548 225L454 318L424 176Z" fill="#fff" stroke="#fff" stroke-width="30" stroke-linejoin="round"/></svg>HV <b>RESET</b></div><p class="eye">Plan your day</p><h1>Late start?<br>Fix your whole day<br>in one tap.</h1><div class="rule"></div><p class="sub">One block, one task, zero guilt. Meals and breaks stay protected.</p><div class="cta">Plan my day &nbsp;→</div></div><div class="bleed"><div class="win" style="width:565px;left:8px;top:50%;transform:translateY(-50%) rotate(-2deg)"><div class="bar"><i></i><i></i><i></i><span>harshvittori.github.io/harsh-reset</span></div><div class="scr" style="height:331px;background-image:url(og-assets/r-intro-0.jpg);background-size:1017.0px auto;background-position:-226.0px -123.6px"></div></div><div class="fchip amber" style="left:10px;top:78px;transform:rotate(-4deg)">⏰&nbsp; Running 30 min late</div><div class="plan" style="left:-24px;bottom:58px;transform:rotate(2deg)"><div class="row now"><b>3:00 PM</b><span>Send applications</span><em>+30m</em></div><div class="row"><b>4:30 PM</b><span>Outreach</span><em>+30m</em></div><div class="row meal"><b>5:30 PM</b><span>Lunch break</span><em>kept</em></div></div><div class="fchip green" style="right:40px;bottom:150px;transform:rotate(3deg)">✓&nbsp; Whole day shifted</div></div></div><div class="card" data-out="vault/og.jpg" style="--accent:#A0721C;--dark:#7C5712;--tint:#FAF7F0;--circle:#F1E6CF"><div class="c1"></div><div class="c2"></div><div class="left"><div class="brand"><svg style="width:48px;height:48px;border-radius:11px;transform:rotate(0deg);flex:none;" viewBox="0 0 1024 1024" aria-hidden="true"><defs><linearGradient id="hvaimk-og11" x1="0" y1="0" x2="1" y2="1"><stop offset="0" stop-color="#1B3157"/><stop offset=".5" stop-color="#152647"/><stop offset="1" stop-color="#0C1830"/></linearGradient></defs><rect width="1024" height="1024" rx="230" fill="url(#hvaimk-og11)"/><path d="M 608.00 360.68 A 179.2 179.2 0 1 1 416.00 360.68" fill="none" stroke="#DFC18A" stroke-width="96" stroke-linecap="round"/><path d="M 608.00 206.74 A 320 320 0 1 1 416.00 206.74" fill="none" stroke="#C9A45E" stroke-width="83.2" stroke-linecap="round"/><circle cx="512" cy="512" r="96" fill="#EAD9B0"/></svg>HV <b>VAULT</b></div><p class="eye">For your job hunt</p><h1>Stop losing job leads in WhatsApp chats.</h1><div class="rule"></div><p class="sub">Every job, recruiter and interview on one board, with follow-ups that set themselves.</p><div class="cta">Organise my job hunt &nbsp;→</div></div><div class="bleed"><div class="board" style="left:14px;top:50%;transform:translateY(-50%) rotate(-2deg)"><div class="bh"><span>SAVED</span><span>APPLIED</span><span>INTERVIEW</span></div><div class="cols"><div class="kcol"><div class="kc " style=""><div class="kh"><i style="background:#3395FF">R</i><div><b>GTM Associate</b><small>Razorpay</small></div></div><span class="tg">Medium</span></div><div class="kc " style=""><div class="kh"><i style="background:#E0457B">M</i><div><b>Growth Analyst</b><small>Meesho</small></div></div><span class="tg">High</span></div></div><div class="kcol"><div class="kc " style=""><div class="kh"><i style="background:#1D1D1F">C</i><div><b>Founder's Office</b><small>Cred</small></div></div><span class="tg">Follow-up in 5d</span></div><div class="slot"></div></div><div class="kcol"><div class="kc " style=""><div class="kh"><i style="background:#E23744">Z</i><div><b>Partnerships Lead</b><small>Zomato</small></div></div><span class="tg">Tue · 4:00 PM</span></div></div></div></div><div class="kc drag" style="left:215px;top:300px;transform:rotate(6deg);width:236px"><div class="kh"><i style="background:#FC8019">S</i><div><b>Growth Associate</b><small>Swiggy</small></div></div><span class="tg">High</span></div><div class="toast" style="left:48px;bottom:44px">✓&nbsp; Applied, follow-up reminder set</div><div class="fchip gold" style="right:64px;top:62px;transform:rotate(4deg)">🔔&nbsp; Follow up with Cred today</div></div></div></body></html>

diff --git a/src/og.py b/src/og.py
@@ -74,7 +74,11 @@ HOME_ART2 = ('<div class="bleed">'
     + kcard("Growth Associate", "Swiggy", "#FC8019", "Applied ✓", "position:relative;box-shadow:none;border:1px solid #EEF0F5") +
     '</div><div class="toast" style="left:250px;bottom:40px;z-index:5">✓&nbsp; Follow-up reminder set</div></div>') % (
     svg("logo-test", 26, 0, False), svg("logo-reset", 26, 0, False), svg("logo-vault", 26, 0, False))
-RIYA = '<div class="riya">%s</div>' % story.prologue()
+RIYA = ('<div class="bleed"><div class="riya">%s</div>'
+        '<div class="pchip" style="left:-6px;top:70px;transform:rotate(-4deg);--c:#127A4F;--b:#E3F4EA">%s<span>Who am I, really?</span></div>'
+        '<div class="pchip" style="right:70px;top:452px;transform:rotate(3deg);--c:#3F66BE;--b:#E6EDFB">%s<span>Where did my day go?</span></div>'
+        '<div class="pchip" style="left:-10px;bottom:34px;transform:rotate(-2deg);--c:#A0721C;--b:#FBF1DC">%s<span>Did I ever follow up?</span></div></div>') % (
+        story.prologue(), svg("logo-test", 34, 0, False), svg("logo-reset", 34, 0, False), svg("logo-vault", 34, 0, False))
 
 CARDS = [  # out, brand logo, brand word, accent, dark, tint, circle, eyebrow, headline, sub, cta, art
     ("og.jpg", "world-orbit", "WORLD", "#2E43A6", "#233489", "#F4F5FB", "#E2E7F8", "3 free apps · by Harsh Vittori",
@@ -139,7 +143,8 @@ h1{margin-top:12px;font-weight:700;font-size:64px;line-height:1.02;letter-spacin
 .score.mini{width:300px;padding:18px 22px}
 .vmini{position:absolute;width:300px;background:#fff;border-radius:22px;padding:16px;box-shadow:0 30px 60px -24px rgba(20,30,60,.5);z-index:3}
 .tag-app{display:flex;align-items:center;gap:8px;font-size:15px;font-weight:600;color:#6B7390;margin-bottom:10px}
-.riya{position:absolute;right:48px;top:50%;width:520px;transform:translateY(-50%) rotate(2deg);border-radius:26px;overflow:hidden;box-shadow:0 40px 80px -30px rgba(20,30,60,.55)}
+.pchip{position:absolute;z-index:4;display:flex;align-items:center;gap:12px;font-weight:600;font-size:22px;color:var(--c);background:#fff;border:2px solid var(--b);padding:9px 20px 9px 9px;border-radius:999px;box-shadow:0 20px 40px -16px rgba(20,30,60,.45);white-space:nowrap}
+.riya{position:absolute;left:40px;top:50%;width:560px;transform:translateY(-50%) rotate(2deg);border-radius:26px;overflow:hidden;box-shadow:0 40px 80px -30px rgba(20,30,60,.55)}
 .riya svg{display:block;width:100%;height:auto}
 """
 html = "<!DOCTYPE html><html><head><meta charset='utf-8'><style>%s</style></head><body>" % CSS
